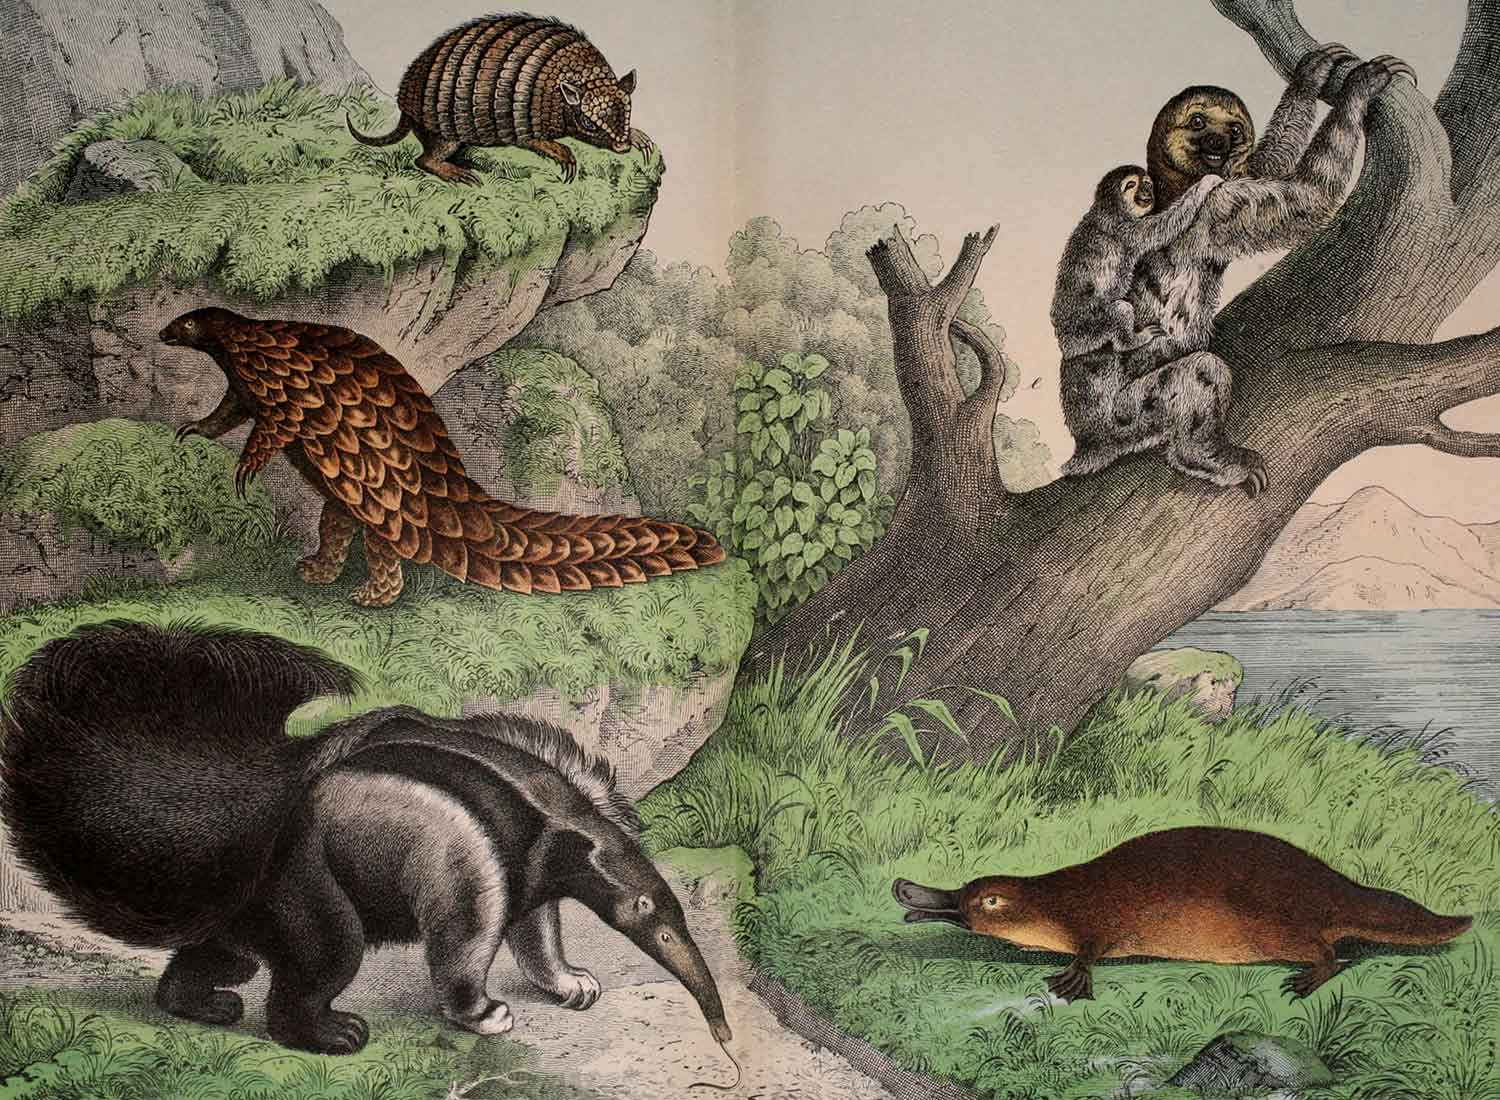
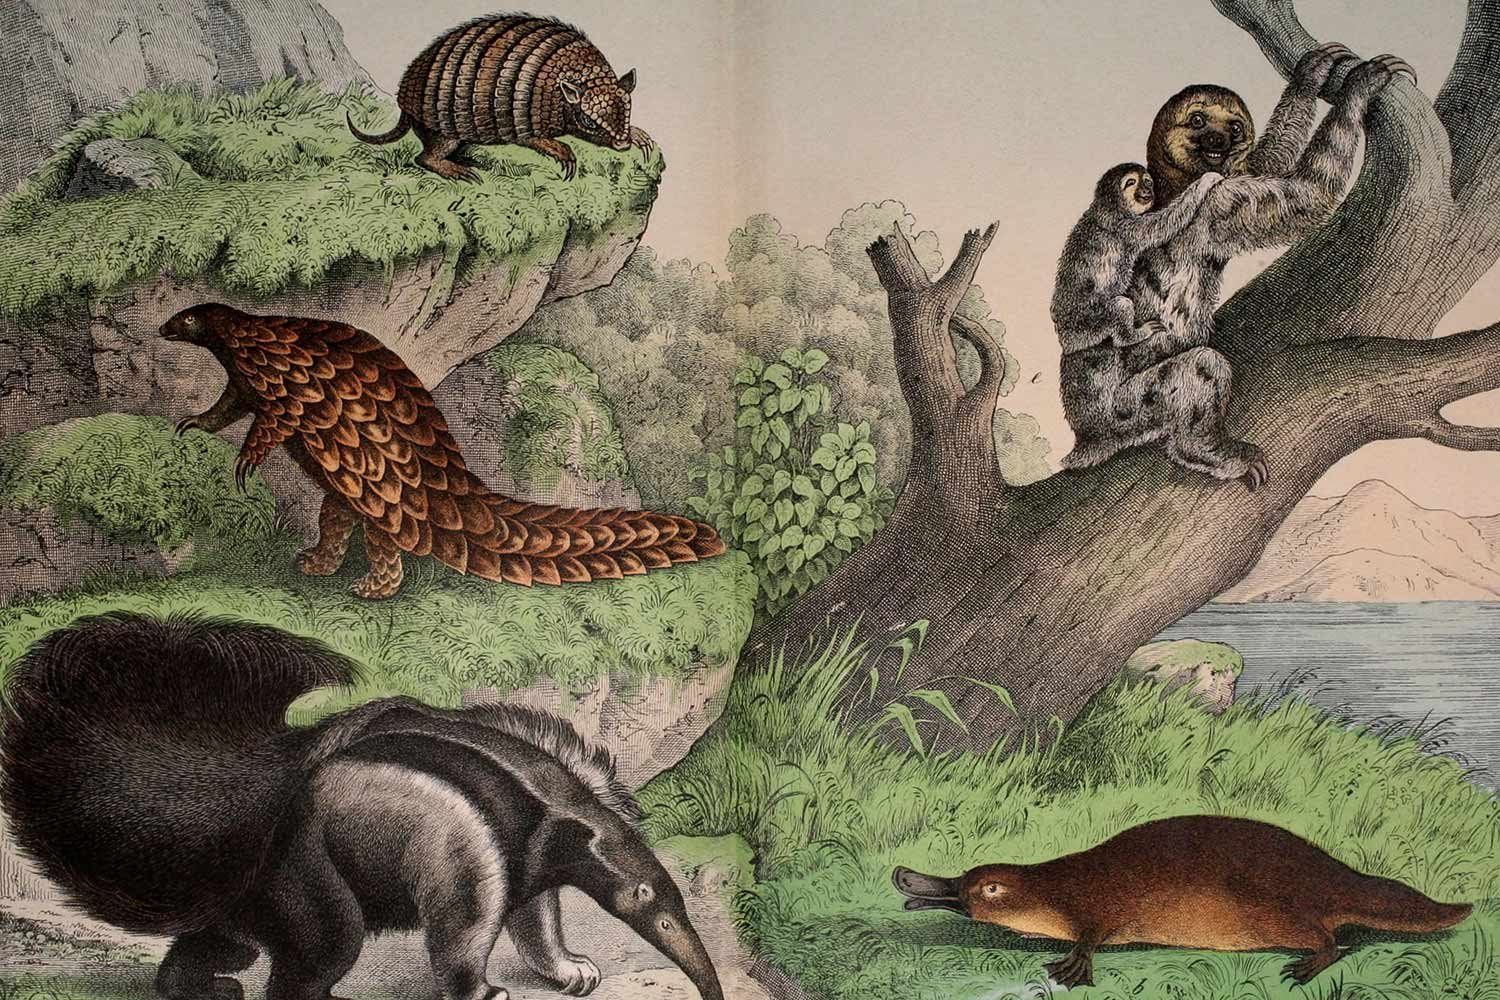
Add new cropped images to html

diff --git a/index.html b/index.html
@@ -9,29 +9,32 @@
   <link href="css/main.css" rel="stylesheet">
 </head>
 <body class="max-length">
-  <div class="banner relative push">
-    <div class="absolute pin-tl pad-t-1-2 gutter-1-2">
-      <h1>The Mighty Sloth</h1>
+  <div class="banner relative pad-t-1-2">
+    <div class="push">
+      <img class="img-1 img-flex" src="images/banner.jpg" alt="">
+    </div>
+    <div class="banner-content absolute pin-tl pad-t gutter-1-2">
+      <h1 class="yotta">The Mighty Sloth</h1>
     </div>
   </div>
 
   <main>
-    <p class="gutter-1-2">Sloths are mammals classified in the families Megalonychidae (two-toed sloths) and Bradypodidae (three-toed sloths), including six extant species. They are named after the capital sin of sloth because they seem slow and lazy at first glance; however, their usual idleness is due to metabolic adaptations for conserving energy.</p>
+    <p class="gutter-1-2">Sloths are mammals classified in the families <em>Megalonychidae</em> (two-toed sloths) and <em>Bradypodidae</em> (three-toed sloths), including six extant species. They are named after the capital sin of sloth because they seem slow and lazy at first glance; however, their usual idleness is due to metabolic adaptations for conserving energy.</p>
     <p class="gutter-1-2">Aside from their surprising speed during emergency flights from predators, other notable traits of sloths include their strong body and their ability to host symbiotic algae on their furs.</p>
     <div class="push">
       <figure>
-        <img class="img-flex" src="images/sloth-1.jpg" alt="Sloths">
-        <figcaption class="italic milli">Three-toed sloth featured with an ant-eater, a platypus & armadillos.</figcaption>
+        <img class="figure-image img-flex" src="images/sloth-1.jpg" alt="Sloths">
+        <figcaption class="gutter-1-2 italic milli">Three-toed sloth featured with an ant-eater, a platypus & armadillos.</figcaption>
       </figure>
     </div>
     <p class="gutter-1-2">They are classified in the order Pilosa because they are related to anteaters, which sport a similar set of specialized claws. Extinct sloth species include many megafaunal ground sloths, some of which attained the size of elephants, as well as a few species of marine sloths. Extant sloths are medium-sized arboreal (tree-dwelling) residents of the jungles of Central and South America.</p>
     <p class="gutter-1-2">Sloths make good habitats for other organisms, and a single sloth may be home to moths, beetles, cockroaches, fungi, ciliates, and algae.</p>
+    <div>
+      <img class="img-1 img-flex push-1-2" src="images/sloth-2.jpg" alt="">
+    </div>
   </main>
-  <div class="push">
-    <img class="img-flex" src="images/sloth-2.png" alt="">
-  </div>
   <footer>
-    <a class="micro" href="https://en.wikipedia.org/wiki/Sloth">https://en.wikipedia.org/wiki/Sloth</a>
+    <a class="gutter-1-2 micro" href="https://en.wikipedia.org/wiki/Sloth">https://en.wikipedia.org/wiki/Sloth</a>
   </footer>
 </body>
 </html>

diff --git a/css/modules.css b/css/modules.css
@@ -1,7 +1,7 @@
 /*
  * Modulifier || Code released under the UNLICENSE
  * Code under other copyrights & licenses listed below.
- * https://modulifier.web-dev.tools/#responsive;images;embed;media-object;icons;positioning
+ * https://modulifier.web-dev.tools/#responsive;images;media-object;positioning
  */
 
 @-moz-viewport { width: device-width; scale: 1; }
@@ -105,70 +105,6 @@ svg.img-flex {
   white-space: nowrap;
 }
 
-.embed {
-  margin-left: 0;
-  margin-right: 0;
-  overflow: hidden;
-  position: relative;
-  width: 100%;
-}
-
-.embed-1by1, .embed--1by1 {
-  padding-top: 100%; /* Square */
-}
-
-.embed-4by3, .embed--4by3 {
-  padding-top: 75%; /* Traditional TV/computer screens */
-}
-
-.embed-iso216, .embed--iso216 {
-  padding-top: 70.92%; /* A-standard paper sizes */
-}
-
-.embed-3by2, .embed--3by2 {
-  padding-top: 66.6%; /* Classic 35 mm film & most digital photos, landscape */
-}
-
-.embed-2by3, .embed--2by3 {
-  padding-top: 150%; /* Classic 35 mm film & most digital photos, portrait */
-}
-
-.embed-golden, .embed--golden {
-  padding-top: 61.8%; /* The Golden Ratio */
-}
-
-.embed-16by9, .embed--16by9 {
-  padding-top: 56.25%; /* HD TV */
-}
-
-.embed-185by100, .embed--185by100 {
-  padding-top: 54.05%; /* Common widescreen cinema */
-}
-
-.embed-24by10, .embed--24by10 {
-  padding-top: 41.667%; /* Widescreen cinema: 2.4:1 */
-}
-
-.embed-3by1, .embed--3by1 {
-  padding-top: 33.3333%; /* Panorama photos */
-}
-
-.embed-4by1, .embed--4by1 {
-  padding-top: 25%; /* Polyvision */
-}
-
-.embed-5by1, .embed--5by1 {
-  padding-top: 20%; /* Really wide... */
-}
-
-.embed-item, .embed__item {
-  min-height: 100%;
-  left: 0;
-  position: absolute;
-  top: 0;
-  width: 100%;
-}
-
 .media {
   overflow: hidden;
 }
@@ -188,89 +124,6 @@ svg.img-flex {
 .media-body, .media__body {
   overflow: hidden;
   min-width: 12em; /* Slightly less than 200px, responsiveness built in */
-}
-
-.icon {
-  display: inline-block;
-  position: relative;
-  background: transparent none no-repeat center center;
-  background-size: contain;
-  vertical-align: middle;
-}
-
-.i-16, .i--16 {
-  height: 16px;
-  width: 16px;
-}
-
-.i-18, .i--18 {
-  height: 18px;
-  width: 18px;
-}
-
-.i-20, .i--20 {
-  height: 20px;
-  width: 20px;
-}
-
-.i-24, .i--24 {
-  height: 24px;
-  width: 24px;
-}
-
-.i-32, .i--32 {
-  height: 32px;
-  width: 32px;
-}
-
-.i-48, .i--48 {
-  height: 48px;
-  width: 48px;
-}
-
-.i-64, .i--64 {
-  height: 64px;
-  width: 64px;
-}
-
-.i-96, .i--96 {
-  height: 96px;
-  width: 96px;
-}
-
-.i-128, .i--128 {
-  height: 128px;
-  width: 128px;
-}
-
-.i-192, .i--192 {
-  height: 192px;
-  width: 192px;
-}
-
-.i-256, .i--256 {
-  height: 256px;
-  width: 256px;
-}
-
-.icon img,
-.icon svg {
-  left: 0;
-  height: 100%;
-  position: absolute;
-  top: 0;
-  width: 100%;
-  fill: currentColor;
-}
-
-.icon-label {
-  vertical-align: middle;
-}
-
-.icon-link,
-.icon-link:focus,
-.icon-link:hover {
-  text-decoration: none;
 }
 
 .clearfix::after {

diff --git a/css/main.css b/css/main.css
@@ -2,21 +2,29 @@ html {
   font-family: Verdana;
 }
 
-.banner {
-  background-image: url("../images/banner.jpg");
-}
-
 h1 {
   color: #fff;
   font-family: Georgia;
   text-shadow: 2px 2px #000;
 }
 
-img {
-  border-top: 2px solid #333;
-  border-bottom: 2px solid #333;
-  padding-top: 2px;
-  padding-bottom: 2px;
+.img-1 {
+  border-top: 2px solid #636363;
+  border-bottom: 2px solid #636363;
+  padding-top: 3px;
+  padding-bottom: 3px;
+}
+
+.figure-image {
+  border-top: 2px solid #636363;
+  padding-top: 3px;
+}
+
+figcaption {
+  font-family: Georgia;
+  border-bottom: 2px solid #636363;
+  padding-top: 4px;
+  padding-bottom: 5px;
 }
 
 a {
